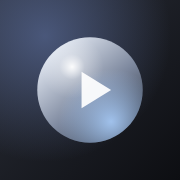
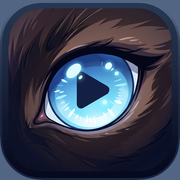
v13: ícono nuevo y Kai, el gatito, en el inicio

diff --git a/gato.js b/gato.js
@@ -1,0 +1,256 @@
+/*
+ * Kai, el gatito del inicio. Animación por cuadros (stop-motion) con dibujos sueltos.
+ * Duerme casi siempre; a ratos se despierta, se estira, parpadea, se acicala y se vuelve a dormir.
+ * Si lo tocas te mira y juega con el estambre. Nunca aparece fuera del inicio ni con un video sonando.
+ */
+(() => {
+  const DIR = 'gato/';
+  // ancho y alto de cada dibujo, en unidades del tamaño base (ya igualados para que el gato mida lo mismo)
+  const P = {
+    dormido: [0.6104, 0.4293], sentado: [0.5312, 0.7314], 'sentado-cierra': [0.5312, 0.7314],
+    estira: [1.0641, 0.9633], echado: [1.3211, 0.5692], parado: [0.7778, 0.6249], lame: [0.7831, 0.617],
+    cara: [0.8042, 0.6188], frente: [0.5359, 0.4941], asoma: [0.2975, 0.5472],
+  };
+  const YARN = ['estambre', 'estambre-1', 'estambre-2', 'estambre-3', 'estambre-4'];
+  const YARN_RATIO = 0.7445; // ancho / alto del cuadro del estambre
+  const YARN_X = 0.3405; // a qué distancia del borde derecho del cuadro cae el hilo
+  const still = matchMedia('(prefers-reduced-motion: reduce)');
+  const rnd = (a, b) => a + Math.random() * (b - a);
+  let demo = 1; // solo para pruebas: acorta la espera entre despertares
+  try { demo = Number(localStorage.getItem('kai.catDemo')) || 1; } catch {}
+
+  const root = document.createElement('div');
+  root.className = 'kcat';
+  root.setAttribute('aria-hidden', 'true');
+  root.innerHTML = `<div class="kcat-peek"><img alt="" draggable="false"></div>
+    <div class="kcat-yarn"><img alt="" draggable="false"></div>
+    <div class="kcat-body"><img class="is-on" alt="" draggable="false"><img alt="" draggable="false"></div>`;
+  const body = root.querySelector('.kcat-body');
+  const [imgA, imgB] = body.querySelectorAll('img');
+  const peekBox = root.querySelector('.kcat-peek');
+  const peekImg = peekBox.querySelector('img');
+  const yarnBox = root.querySelector('.kcat-yarn');
+  const yarnImg = yarnBox.querySelector('img');
+
+  let on = imgA;
+  let current = '';
+  let token = 0; // cambia para cancelar la secuencia en curso
+  let mounted = false;
+  let started = false; // ya se presentó en esta sesión (no repetir la entrada cada vez que vuelves al inicio)
+  let loaded = false;
+  let playingYarn = false;
+  let running = false; // hay una rutina en marcha
+
+  const unit = () => (innerWidth < 700 ? 105 : 150);
+  // vive abajo a la derecha, justo a la izquierda del botón flotante: distancia del borde derecho al centro del gato
+  const x0 = () => 92 + unit() * 0.66;
+
+  function preload() {
+    if (loaded) return;
+    loaded = true;
+    for (const n of [...Object.keys(P), ...YARN]) { const i = new Image(); i.src = DIR + n + '.webp'; }
+  }
+
+  function place(img, name) {
+    const u = unit();
+    const [w, h] = P[name];
+    img.style.width = w * u + 'px';
+    img.style.height = h * u + 'px';
+    img.style.right = x0() - (w * u) / 2 + 'px';
+  }
+
+  /** Cambia de dibujo: de golpe (stop-motion) o con un fundido corto. */
+  async function pose(name, fade = true) {
+    if (name === current) return;
+    current = name;
+    body.classList.toggle('is-asleep', name === 'dormido');
+    if (!fade) { place(on, name); on.src = DIR + name + '.webp'; return; }
+    const next = on === imgA ? imgB : imgA;
+    place(next, name);
+    next.src = DIR + name + '.webp';
+    try { await next.decode(); } catch {}
+    next.classList.add('is-on');
+    on.classList.remove('is-on');
+    on = next;
+  }
+
+  const paused = () => !mounted || !root.isConnected || document.hidden || document.body.classList.contains('is-playing');
+
+  function wait(ms, t) {
+    return new Promise((ok, no) => {
+      const end = Date.now() + ms;
+      const tick = () => {
+        if (t !== token) return no(new Error('cancel'));
+        if (paused()) return no(new Error('cancel'));
+        const left = end - Date.now();
+        if (left <= 0) return ok();
+        setTimeout(tick, Math.min(left, 500));
+      };
+      tick();
+    });
+  }
+
+  async function blink(t) {
+    await pose('sentado-cierra', false);
+    await wait(170, t);
+    await pose('sentado', false);
+  }
+
+  async function groom(t) {
+    await pose('parado');
+    await wait(900, t);
+    for (let i = 0; i < 3; i++) {
+      await pose('lame', false); await wait(520, t);
+      await pose('cara', false); await wait(620, t);
+    }
+    await pose('lame', false); await wait(420, t);
+    await pose('parado', false); await wait(800, t);
+    await pose('sentado');
+  }
+
+  async function sitAround(ms, t, canGroom = true) {
+    const end = Date.now() + ms;
+    let groomed = !canGroom;
+    while (Date.now() < end) {
+      await wait(rnd(2200, 4800), t);
+      if (!groomed && Math.random() < 0.4) { groomed = true; await groom(t); } else await blink(t);
+    }
+  }
+
+  async function lieDown(t) {
+    await pose('echado');
+    await wait(rnd(3500, 6000), t);
+    await pose('dormido');
+  }
+
+  async function peek(t) {
+    const u = unit();
+    const [w, h] = P.asoma;
+    peekBox.style.width = w * u + 'px';
+    peekBox.style.height = h * u + 'px';
+    peekImg.src = DIR + 'asoma.webp';
+    try { await peekImg.decode(); } catch {}
+    body.classList.add('is-away');
+    await wait(600, t);
+    peekBox.classList.add('is-out');
+    await wait(2600, t);
+    peekBox.classList.remove('is-out');
+    await wait(900, t);
+  }
+
+  async function yarn(t) {
+    const u = unit();
+    const hgt = Math.min(innerHeight * 0.45, u * 2.1);
+    const wid = hgt * YARN_RATIO;
+    yarnBox.style.height = hgt + 'px';
+    yarnBox.style.width = wid + 'px';
+    yarnBox.style.right = x0() - wid * YARN_X + 'px';
+    yarnImg.src = DIR + 'estambre.webp';
+    try { await yarnImg.decode(); } catch {}
+    yarnBox.classList.add('is-down');
+    await wait(900, t);
+    body.classList.add('is-away');
+    // cuadros del juego: abajo, trepa, trepa, arriba dándole al estambre
+    const frames = [['estambre-1', 700], ['estambre-2', 420], ['estambre-4', 420], ['estambre-2', 420], ['estambre-4', 420], ['estambre-3', 1500], ['estambre-4', 380], ['estambre-2', 380], ['estambre-1', 700]];
+    for (const [n, ms] of frames) { yarnImg.src = DIR + n + '.webp'; await wait(ms, t); }
+    yarnImg.src = DIR + 'estambre.webp';
+    await pose('sentado', false);
+    body.classList.remove('is-away');
+    await wait(500, t);
+    yarnBox.classList.remove('is-down');
+  }
+
+  function reset() {
+    body.classList.remove('is-away');
+    peekBox.classList.remove('is-out');
+    yarnBox.classList.remove('is-down');
+    playingYarn = false;
+  }
+
+  async function life(intro) {
+    const t = ++token;
+    running = true;
+    try {
+      if (intro) {
+        if (innerWidth >= 900) await peek(t);
+        await pose('sentado');
+        body.classList.remove('is-away');
+        await sitAround(rnd(7000, 11000), t, false);
+        await lieDown(t);
+      }
+      for (;;) {
+        await wait(rnd(35000, 80000) / demo, t);
+        await pose('estira');
+        await wait(1900, t);
+        await pose('sentado');
+        await sitAround(rnd(10000, 20000), t);
+        if (Math.random() < 0.35) { await yarn(t); await sitAround(rnd(4000, 7000), t, false); } // a veces juega solo
+        await lieDown(t);
+      }
+    } catch {
+      if (t === token) { running = false; reset(); pose('dormido', false); }
+    }
+  }
+
+  async function play() {
+    if (playingYarn || still.matches) return;
+    playingYarn = true;
+    running = true;
+    const t = ++token;
+    try {
+      await pose('frente');
+      await wait(1300, t);
+      await yarn(t);
+      await sitAround(rnd(5000, 8000), t, false);
+      await lieDown(t);
+    } catch {
+      playingYarn = false;
+      if (t !== token) return;
+      running = false;
+      reset(); pose('dormido', false);
+    }
+    playingYarn = false;
+    if (t === token) life(false);
+  }
+
+  body.addEventListener('click', play);
+
+  // al volver a la pestaña o al terminar un video, sigue durmiendo y retoma su rutina
+  function resume() {
+    if (!mounted || paused() || still.matches) return;
+    if (!running) life(false);
+  }
+  document.addEventListener('visibilitychange', resume);
+  setInterval(resume, 3000);
+  new MutationObserver(() => {
+    if (!mounted) return;
+    if (paused()) { token++; running = false; reset(); pose('dormido', false); } else resume();
+  }).observe(document.body, { attributes: true, attributeFilter: ['class'] });
+  addEventListener('resize', () => { if (current) { place(on, current); } });
+
+  window.KaiCat = {
+    /** Pone al gato en la portada (si ya estaba, solo lo mueve: no reinicia lo que hacía). */
+    mount(host, enabled) {
+      if (!enabled || !host) { this.unmount(); return; }
+      if (root.parentNode !== host) host.appendChild(root);
+      host.classList.add('has-cat');
+      if (mounted) { resume(); return; }
+      mounted = true;
+      preload();
+      if (still.matches) { token++; pose('dormido', false); return; }
+      const intro = !started;
+      started = true;
+      if (intro) { body.classList.add('is-away'); place(on, 'sentado'); } else pose('dormido', false);
+      if (!paused()) life(intro); else pose('dormido', false);
+    },
+    unmount() {
+      if (!mounted && !root.parentNode) return;
+      mounted = false;
+      token++;
+      running = false;
+      reset();
+      root.remove();
+      if (current) pose('dormido', false);
+    },
+  };
+})();

diff --git a/app.js b/app.js
@@ -1345,13 +1345,13 @@ function softRender() {
 
 function render() {
   closeDrawer();
-  if (!LS.get('session', null)) { stopPlayback(); renderLogin(); return; }
+  if (!LS.get('session', null)) { stopPlayback(); renderLogin(); paintCat('login'); return; }
   const { view, arg } = route();
   if (!state.profile || !visibleProfiles().some((p) => p.id === state.profile.id) && state.sharedLoaded) {
     if (state.profile && state.sharedLoaded) { state.profile = null; LS.del('profile'); }
-    if (!state.profile) { stopPlayback(); renderProfiles(); paintDock(); lastRouteKey = 'perfiles'; return; }
+    if (!state.profile) { stopPlayback(); renderProfiles(); paintCat('perfiles'); paintDock(); lastRouteKey = 'perfiles'; return; }
   }
-  if (view === 'perfiles') { stopPlayback(); renderProfiles(); paintDock(); lastRouteKey = 'perfiles'; return; }
+  if (view === 'perfiles') { stopPlayback(); renderProfiles(); paintCat('perfiles'); paintDock(); lastRouteKey = 'perfiles'; return; }
   if (picking && (view !== 'serie' || String(picking.si) !== String(arg))) endPicking(false);
   if (view === 'play') {
     const c = resolveContext(arg);
@@ -1369,6 +1369,7 @@ function render() {
     else if (view === 'ajustes') renderSettings();
     else renderHome();
   }
+  paintCat(view);
   paintSync();
   paintDock();
   hydrateThumbs(app);
@@ -1376,6 +1377,14 @@ function render() {
   if (key !== lastRouteKey && view !== 'play') window.scrollTo(0, 0);
   if (key !== lastRouteKey && view === 'play' && lastRouteKey.split('/')[0] !== 'play') window.scrollTo(0, 0);
   lastRouteKey = key;
+}
+
+/** El gatito vive solo en la portada (gato.js). */
+function paintCat(view) {
+  if (!window.KaiCat) return;
+  const home = view !== 'play' && app.querySelector('.tv.is-home');
+  if (home) window.KaiCat.mount(home, state.settings.cat !== false);
+  else window.KaiCat.unmount();
 }
 
 /* ── botón flotante (reemplaza el menú lateral) ── */
@@ -1449,7 +1458,7 @@ document.addEventListener('keydown', (e) => {
 let loginNote = ''; // aviso que se mantiene en la pantalla de entrar aunque se vuelva a dibujar
 function renderLogin(message = loginNote, needCode = false, email = '') {
   app.innerHTML = `<main class="login">
-    <div class="login-mark" aria-hidden="true"><span class="orb"></span></div>
+    <div class="login-mark" aria-hidden="true"><img class="login-icon" src="icon-192.png" alt=""></div>
     <h1 class="login-title">Kai</h1>
     <p class="login-lead">Tus series de MEGA, donde te quedaste, en cualquier pantalla.</p>
     <form id="login" class="form" autocomplete="on">
@@ -2673,6 +2682,7 @@ function renderSettings() {
       <label class="switch"><input type="checkbox" name="subs" ${s.subs !== 'off' ? 'checked' : ''}><span>Mostrar subtítulos cuando el capítulo los traiga</span></label>
       <label class="switch"><input type="checkbox" name="autoSkip" ${s.autoSkip ? 'checked' : ''}><span>Saltar intros solo cuando Kai sepa dónde están</span></label>
       <label class="switch"><input type="checkbox" name="ambient" ${s.ambient !== false ? 'checked' : ''}><span>Luz ambiental alrededor del video</span></label>
+      <label class="switch"><input type="checkbox" name="cat" ${s.cat !== false ? 'checked' : ''}><span>Kai, el gatito, en el inicio</span></label>
       <label class="switch"><input type="checkbox" name="prefetchNext" ${s.prefetchNext !== false ? 'checked' : ''}><span>Preparar el siguiente capítulo para que empiece sin espera (usa unos 3 MB de MEGA)</span></label>
     </form>
     <section class="settings-group" id="dl-where">${downloadsWhereHTML()}</section>
@@ -2707,6 +2717,7 @@ function renderSettings() {
     s.autoSkip = f.autoSkip.checked;
     s.ambient = f.ambient.checked;
     s.prefetchNext = f.prefetchNext.checked;
+    s.cat = f.cat.checked;
     saveSettings();
   });
   paintSpace();

diff --git a/styles.css b/styles.css
@@ -321,6 +321,7 @@ main { padding: 6px var(--gutter) calc(48px + env(safe-area-inset-bottom)); max-
 
 .login { max-width: 400px; min-height: 100dvh; display: grid; align-content: center; padding-top: env(safe-area-inset-top); }
 .login-mark { font-size: 72px; line-height: 1; margin-bottom: 18px; }
+.login-icon { display: block; width: 88px; height: 88px; border-radius: 22%; box-shadow: 0 10px 30px rgba(0, 0, 0, .35); }
 .login-title { margin: 0; font: 700 46px/1.05 var(--font-display); letter-spacing: -0.035em; }
 .login-lead { margin: 8px 0 32px; color: var(--dim); max-width: 32ch; }
 
@@ -1228,3 +1229,24 @@ html.has-mini body { padding-bottom: var(--mini-space); }
 .shelf.is-row::-webkit-scrollbar { display: none; }
 .shelf.is-row > li { scroll-snap-align: start; }
 @media (max-width: 600px) { .shelf.is-row { grid-template-columns: none; grid-auto-columns: 30%; gap: 10px; } }
+
+/* ───────── Kai, el gatito del inicio ───────── */
+.tv.has-cat .tv-main { padding-bottom: calc(120px + env(safe-area-inset-bottom)); }
+.kcat { position: absolute; right: 0; bottom: calc(14px + env(safe-area-inset-bottom)); width: 0; height: 0; z-index: 3; pointer-events: none; }
+.kcat img { position: absolute; bottom: 0; display: block; user-select: none; -webkit-user-select: none; -webkit-touch-callout: none; }
+.kcat-body { position: absolute; right: 0; bottom: 0; transition: opacity .35s ease; }
+.kcat-body img { opacity: 0; transition: opacity .35s ease; transform-origin: 50% 100%; pointer-events: none; }
+.kcat-body img.is-on { opacity: 1; pointer-events: auto; cursor: pointer; }
+.kcat-body.is-away { opacity: 0; }
+.kcat-body.is-away img { pointer-events: none; }
+.kcat-body.is-asleep img.is-on { animation: kcat-breathe 3.6s ease-in-out infinite; }
+@keyframes kcat-breathe { 50% { transform: scale(1.012, 1.028); } }
+.kcat-peek { position: fixed; right: 0; bottom: 34vh; overflow: hidden; pointer-events: none; }
+.kcat-peek img { right: 0; width: 100%; height: 100%; transform: translateX(102%); transition: transform .7s cubic-bezier(.3, .7, .3, 1); }
+.kcat-peek.is-out img { transform: translateX(0); }
+.kcat-yarn { position: absolute; bottom: 0; overflow: hidden; pointer-events: none; opacity: 0; transition: opacity .4s ease; }
+.kcat-yarn img { right: 0; width: 100%; height: 100%; transform: translateY(-100%); transition: transform .8s cubic-bezier(.25, .8, .3, 1); }
+.kcat-yarn.is-down { opacity: 1; }
+.kcat-yarn.is-down img { transform: translateY(0); }
+body.is-playing .kcat, body.lights-off .kcat { display: none; }
+@media (prefers-reduced-motion: reduce) { .kcat-body img, .kcat-body { transition: none; } .kcat-body.is-asleep img.is-on { animation: none; } }

diff --git a/sw.js b/sw.js
@@ -9,7 +9,8 @@ importScripts('core.js');
 const VERSION = 'kai-v13';
 const SHELL = [
   './', 'index.html', 'styles.css', 'app.js', 'subs.js', 'meta.js', 'core.js',
-  'vendor/mega.js', 'manifest.webmanifest', 'icon.svg', 'icon-180.png', 'icon-512.png',
+  'vendor/mega.js', 'manifest.webmanifest', 'icon-32.png', 'icon-180.png', 'icon-192.png', 'icon-512.png', 'gato.js',
+  ...['dormido', 'sentado', 'sentado-cierra', 'estira', 'echado', 'parado', 'lame', 'cara', 'frente', 'asoma', 'estambre', 'estambre-1', 'estambre-2', 'estambre-3', 'estambre-4'].map((n) => 'gato/' + n + '.webp'),
 ];
 const FONT_CACHE = 'kai-fonts';
 const ART_CACHE = 'kai-art';

diff --git a/index.html b/index.html
@@ -12,10 +12,11 @@
   <meta name="referrer" content="no-referrer">
   <title>Kai</title>
   <link rel="manifest" href="manifest.webmanifest">
-  <link rel="icon" href="icon.svg" type="image/svg+xml">
+  <link rel="icon" href="icon-32.png" type="image/png" sizes="32x32">
   <link rel="apple-touch-icon" href="icon-180.png">
   <link rel="stylesheet" href="styles.css">
   <script src="core.js"></script>
+  <script src="gato.js" defer></script>
   <script type="module" src="app.js"></script>
 </head>
 <body>

diff --git a/README.md b/README.md
@@ -17,6 +17,7 @@ Reproductor web para ver las series y películas de anime guardadas en una cuent
 - **Rápido:** lo ya visto queda en memoria (retroceder no gasta cuota de MEGA) y prepara el inicio del siguiente capítulo.
 - **Descargas sin conexión,** de uno en uno o varios a la vez. En Chrome y Edge de computadora se pueden guardar en una carpeta como MP4. Nada se borra solo: lo descargado se quita a mano desde Descargados.
 - **Novedades** en Ajustes con lo que se agrega a MEGA (un puntito en el menú avisa que hay algo nuevo). Aviso del uso de la cuota de MEGA y de cuando hay una versión nueva de Kai (también se puede buscar en Ajustes).
+- **Kai, el gatito:** vive abajo a la derecha del inicio, junto al botón flotante. Duerme, a ratos se despierta, se estira, se acicala y a veces juega solo con el estambre; si lo tocas, juega contigo. No aparece fuera del inicio ni mientras suena un video, y se apaga en Ajustes.
 - **Visto por todos:** en Ajustes, lista lo que ya terminaron todos los perfiles, por si quieres liberar espacio en MEGA.
 
 ## Notas
